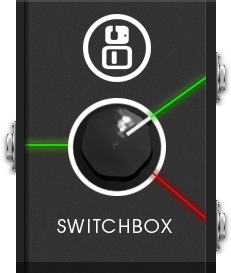
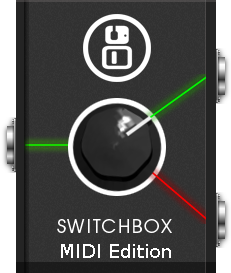
Small update to resources

diff --git a/midi-switchbox.lv2/modgui/switchbox2.css b/midi-switchbox.lv2/modgui/switchbox2.css
@@ -36,13 +36,13 @@
         font-size:18px;
     }
     .mod-midi-switch-box .mod-pedal-input {
-        top:119px;
+        top:117px;
     }
     .mod-midi-switch-box .mod-pedal-output {
-        top:50px;
+        top:48px;
     }
     .mod-midi-switch-box .mod-pedal-output .mod-output {
-        margin-bottom: 92px;
+        margin-bottom: 88px;
     }
     .mod-midi-switch-box .mod-control-group {
         left:52px;
